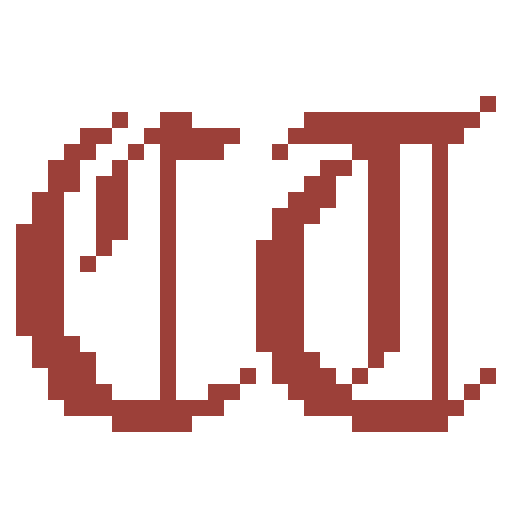
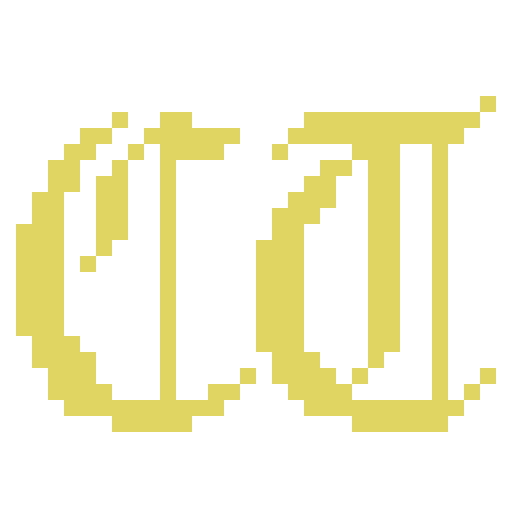
new color

diff --git a/css/styles.0ea3e9989fc6c27bb0498cd610b6d9ded6962526e50b505d3792fd0711d4f9e482dc5d2aa5b4354def56902c72e5c414a550694cf084d53366e19485f2fdc477.css b/css/styles.0ea3e9989fc6c27bb0498cd610b6d9ded6962526e50b505d3792fd0711d4f9e482dc5d2aa5b4354def56902c72e5c414a550694cf084d53366e19485f2fdc477.css
@@ -1,0 +1,3 @@
+:root{--dark_bg:          #242629;--dark_hl_bg:       #34363b;--dark_fg:          #fff;--dark_dim_fg:      #bababa;--dark_stroke:      #4f4f4f;--dark_accent:      #e0d562;--dark_sidebar_bg:  #34363b;--dark_sidebar_fg:  #fff;--light_bg:         #f5f5f5;--light_hl_bg:      #e6e6e6;--light_fg:         #262625;--light_dim_fg:     #40403e;--light_stroke:     #575754;--light_accent:     #db5793;--light_sidebar_bg: #e6e6e6;--light_sidebar_fg: #121211;--default_bg:         #242629;--default_hl_bg:      #34363b;--default_fg:         #fff;--default_dim_fg:     #bababa;--default_stroke:     #4f4f4f;--default_accent:     #e0d562;--default_sidebar_bg: #34363b;--default_sidebar_fg: #fff}::selection,::-moz-selection{background:var(--default_accent);color:var(--default_fg)}body,html{font-family:"Symbols Nerd Font",JetBrains Mono,monospace;font-size:16px;margin:0;padding:0;background-color:var(--default_bg);color:var(--default_fg)}body{min-height:100vh}a{color:var(--default_fg);text-decoration:none;background-color:transparent;border-radius:0;border-bottom:2px solid currentcolor}a:hover,a:hover:not([disabled]),a:focus,a:focus:not([disabled]){border-color:var(--default_accent) !important;background-color:transparent}a.unstyledLink{border:none;text-decoration:none;color:var(--default_fg)}#content{max-width:1000px;margin-left:auto;margin-right:auto;padding:15px}footer{color:var(--default_dim_fg)}footer a{color:var(--default_dim_fg)}footer hr{margin-top:30px}footer .footerColumns{font-size:14.4px;display:flex;flex-direction:row;flex-wrap:wrap}footer .footerColumns ul{margin:7.5px;list-style-type:none;padding:0}footer .footerColumns ul li>strong{font-size:1rem}#links{padding:5px 0}article img,.articlePreview img{margin:auto;display:block;max-width:100%}article pre,article code,.articlePreview pre,.articlePreview code{overflow:auto}article pre,.articlePreview pre{padding:15px;border:1px solid var(--default_stroke);border-radius:3px}code{font-family:"Symbols Nerd Font",JetBrains Mono,monospace;font-size:12.8px;border:1px solid var(--default_stroke);border-radius:3px}code,table{padding:2px}pre code{border:none;border-radius:none;padding:0}table{border-collapse:collapse;overflow-x:auto;display:block}table td,table th{padding:6px;border:1px solid var(--default_stroke)}table th,table tr:nth-child(even){filter:brightness(105%)}blockquote{margin:0;padding-left:30px;border-left:2px solid currentcolor}.date,.date a{color:var(--default_dim_fg);border-color:var(--default_dim_fg);font-size:.9em}#pageNavigation a,.nerdlink a,header #hamburger-menu a,nav:not(#TableOfContents) a{border-bottom:none}#pageNavigation a:hover,.nerdlink a:hover,header #hamburger-menu a:hover,nav:not(#TableOfContents) a:hover{border-bottom:none}#pageNavigation{text-align:right}#pageNavigation a{color:var(--default_accent)}#pageNavigation a,#pageNavigation span{display:inline-block;padding:6px}#pageNavigation.nav-circles{display:flex;flex-direction:row;flex-wrap:wrap;justify-content:flex-end;align-items:center}#pageNavigation.nav-circles a,#pageNavigation.nav-circles span{margin:5px;text-align:center;display:inline-block;width:40px;height:40px;line-height:40px;padding:unset;border-radius:100%;transition:background-color .15s ease-in-out;background-color:var(--default_hl_bg);color:var(--default_fg);box-shadow:0 0 0 0 transparent}#pageNavigation.nav-circles span{background-color:var(--default_accent)}#pageNavigation.nav-circles a:hover{background-color:var(--default_accent)}h1,h2,h3,h4,h5,h6{font-family:"Symbols Nerd Font",JetBrains Mono}h1 a,h2 a,h3 a,h4 a,h5 a,h6 a{color:var(--default_accent);border-bottom:none}h1{font-size:32px}h2{font-size:24px}h3{font-size:20.8px}h4{font-size:16px}h5{font-size:12.8px}h6{font-size:11.2px}.nerd,.nerdlink,header #hamburger-menu{font-family:"Symbols Nerd Font",JetBrains Mono;font-size:19.2px;margin:5px;display:inline-block}.nerdlink,header #hamburger-menu{color:var(--default_fg);border-bottom:none;position:relative;width:1em;height:1.2em;display:inline-flex;align-items:center;justify-content:center}.nerdlink .pseudofont,header #hamburger-menu .pseudofont{fill:var(--default_fg);display:inline;position:relative;top:1px}.nerdlink span,header #hamburger-menu span{position:absolute;top:1.5em;left:50%;transform:translateX(-50%);padding:2px;border:1px solid var(--default_stroke);border-radius:3px;color:var(--default_fg);display:none;background-color:var(--default_bg);z-index:900;text-align:center}.nerdlink:hover,header #hamburger-menu:hover{color:var(--default_accent);text-decoration:none;border-bottom:none}.nerdlink:hover .pseudofont,header #hamburger-menu:hover .pseudofont{fill:var(--default_accent)}.nerdlink:hover span,header #hamburger-menu:hover span{display:block}.card,.featuredCardLink .featuredCard,.featuredCardLink .relatedArticlesContainer #relatedArticles .postlistitem,.relatedArticlesContainer #relatedArticles .featuredCardLink .postlistitem{display:block;padding-bottom:15px}.postlist{display:grid;grid-gap:15px;margin-bottom:15px;grid-template-columns:1fr}.postlist.gridView{grid-template-columns:repeat(auto-fit, minmax(325px, 1fr))}.postlistitem.card div img,.featuredCardLink .postlistitem.featuredCard div img,.featuredCardLink .relatedArticlesContainer #relatedArticles .postlistitem div img,.relatedArticlesContainer #relatedArticles .featuredCardLink .postlistitem div img{height:250px;min-width:100%;object-fit:cover}ul li{margin:5px 0}ul.list .date{display:inline-block;min-width:100px}ul.list>li>div{display:grid;grid-template-columns:100px auto}#commento{margin-top:15px;color:var(--default_fg);font-family:"Symbols Nerd Font",JetBrains Mono,monospace}#commento textarea,#commento #commento-markdown-help-root{background:rgba(255,255,255,0.05);color:var(--default_fg);border-radius:0;border:none}#commento textarea td,#commento textarea td>*,#commento textarea td>*>*,#commento #commento-markdown-help-root td,#commento #commento-markdown-help-root td>*,#commento #commento-markdown-help-root td>*>*{color:var(--default_fg)}#commento textarea td pre,#commento textarea td>* pre,#commento textarea td>*>* pre,#commento #commento-markdown-help-root td pre,#commento #commento-markdown-help-root td>* pre,#commento #commento-markdown-help-root td>*>* pre{font-family:"Symbols Nerd Font",JetBrains Mono,monospace;color:var(--default_dim_fg)}#commento #commento-submit-button-root{background:var(--default_accent);color:var(--default_fg)}#commento .commento-name{color:var(--default_dim_fg)}#commento .commento-sort-policy-buttons a{border-bottom:none}#commento .commento-sort-policy-buttons .commento-sort-policy-button-selected{color:var(--default_accent)}#commento .commento-card{border-top:none;margin:25px 0}#commento .commento-body>*,#commento .commento-body *>*,#commento .commento-body>*>*>*,#commento .commento-body>*>*>*>*,#commento .commento-body>*>*>*>*>*{color:var(--default_fg);font-family:"Symbols Nerd Font",JetBrains Mono,monospace}.search{display:flex;flex-direction:row;flex-wrap:nowrap;align-items:center;margin:15px 0}.search .nerdlink,.search header #hamburger-menu,header .search #hamburger-menu{display:inline-block;cursor:pointer;padding:0 6px}.search #searchbar{width:100%;min-width:150px;font-size:1.3em;outline:none}.titleAndSearchContainer{display:flex;flex-direction:row;flex-wrap:wrap;justify-content:space-between}.titleAndSearchContainer #titleContainer{flex-grow:99}.titleAndSearchContainer .search{flex-grow:1}.titleAndSearchContainer .search,.titleAndSearchContainer .search #searchbar{font-size:1em}.featuredCardLink{border:none;padding:0}.featuredCardLink .featuredCard,.featuredCardLink .relatedArticlesContainer #relatedArticles .postlistitem,.relatedArticlesContainer #relatedArticles .featuredCardLink .postlistitem{background-size:cover;background-position:center;background-repeat:no-repeat;position:relative;height:250px}.featuredCardLink .featuredCard .contentArea,.featuredCardLink .relatedArticlesContainer #relatedArticles .postlistitem .contentArea,.relatedArticlesContainer #relatedArticles .featuredCardLink .postlistitem .contentArea{position:absolute;bottom:0;padding:15px}.featuredCardLink .featuredCard .contentArea,.featuredCardLink .relatedArticlesContainer #relatedArticles .postlistitem .contentArea,.relatedArticlesContainer #relatedArticles .featuredCardLink .postlistitem .contentArea,.featuredCardLink .featuredCard .contentArea h2,.featuredCardLink .relatedArticlesContainer #relatedArticles .postlistitem .contentArea h2,.relatedArticlesContainer #relatedArticles .featuredCardLink .postlistitem .contentArea h2,.featuredCardLink .featuredCard .contentArea .date,.featuredCardLink .relatedArticlesContainer #relatedArticles .postlistitem .contentArea .date,.relatedArticlesContainer #relatedArticles .featuredCardLink .postlistitem .contentArea .date{color:white}.featuredCardLink .featuredCard .contentArea h2,.featuredCardLink .relatedArticlesContainer #relatedArticles .postlistitem .contentArea h2,.relatedArticlesContainer #relatedArticles .featuredCardLink .postlistitem .contentArea h2{margin:0}.featuredCardLink .featuredCard .contentArea .date,.featuredCardLink .relatedArticlesContainer #relatedArticles .postlistitem .contentArea .date,.relatedArticlesContainer #relatedArticles .featuredCardLink .postlistitem .contentArea .date{margin:0}.loadMoreButton{text-align:center;font-size:1.2em;font-weight:bold}.loadMoreButton.buttonLike a{display:inline-block;border-radius:10px;background-color:var(--default_hl_bg);color:var(--default_fg);padding:7.5px;margin:2.5px 0;transition:background-color .15s ease-in-out !important;border-bottom:none;box-shadow:0 0 0 0 transparent}.loadMoreButton.buttonLike a:hover,.loadMoreButton.buttonLike a:focus{background-color:var(--default_accent)}.relatedArticlesContainer{margin:15px 0}#titleContainer{display:flex;flex-direction:row;flex-wrap:nowrap;align-items:flex-start;align-self:flex-start}#titleContainer h1{font-weight:normal;font-size:25.6px;margin:0}#titleContainer img{margin-right:7.5px;margin-top:7px;align-self:flex-start;width:50px;max-height:50px;border-radius:5px}nav:not(#TableOfContents) ul,#links ul{list-style-type:none;display:flex;flex-direction:row;flex-wrap:wrap;padding:0;margin:0}header{max-width:1000px;margin-left:auto;margin-right:auto;padding:15px;margin-bottom:15px}header .rightOfLogo{width:100%}header .rightOfLogo .titleAndHamburger{display:flex;flex-direction:row;flex-wrap:nowrap;align-items:flex-start;justify-content:space-between}header nav:not(#TableOfContents){font-size:.9em}header nav:not(#TableOfContents) ul li{border-right:1px solid var(--default_accent)}header nav:not(#TableOfContents) ul li:last-child{border-right:none}header nav:not(#TableOfContents) ul li a{padding:2px 15px;color:var(--default_accent)}header nav:not(#TableOfContents) ul li a:hover{text-decoration:underline}.articleTagsContainer{margin:15px 0}a.buttonTag{display:inline-block;border-radius:10px;background-color:var(--default_hl_bg);color:var(--default_fg);padding:7.5px;margin:2.5px 0;transition:background-color .15s ease-in-out !important;border-bottom:none;box-shadow:0 0 0 0 transparent}a.buttonTag:hover,a.buttonTag:focus{background-color:var(--default_accent)}.cactus-button,.cactus-login-buttons>button{font-family:JetBrains Mono;padding:0;margin:5px 0 5px 15px !important;color:var(--default_fg);text-decoration:none;background-color:transparent;border-radius:0;border-bottom:2px solid currentcolor;font-size:19.2px;transition-property:border-color, background-color !important;transition-duration:.15s;transition-timing-function:ease-in-out;opacity:1 !important}.cactus-button:hover,.cactus-button:hover:not([disabled]),.cactus-button:focus,.cactus-button:focus:not([disabled]),.cactus-login-buttons>button:hover,.cactus-login-buttons>button:hover:not([disabled]),.cactus-login-buttons>button:focus,.cactus-login-buttons>button:focus:not([disabled]){border-color:var(--default_accent) !important;background-color:transparent}.cactus-button[disabled],.cactus-login-buttons>button[disabled]{opacity:.5 !important;border-color:transparent !important;background-color:transparent !important;box-shadow:none}.shareBtn,button{color:var(--default_fg);text-decoration:none;background-color:transparent;border-radius:0;border-bottom:2px solid currentcolor;font-size:19.2px;cursor:pointer}.shareBtn:hover,.shareBtn:hover:not([disabled]),.shareBtn:focus,.shareBtn:focus:not([disabled]),button:hover,button:hover:not([disabled]),button:focus,button:focus:not([disabled]){border-color:var(--default_accent) !important;background-color:transparent}input,textarea,textarea.cactus-editor-textarea{border-radius:0 !important;box-sizing:border-box;font-family:"Symbols Nerd Font",JetBrains Mono;background-color:var(--default_hl_bg) !important;color:var(--default_fg);max-width:100%;min-width:10px;padding:12px;border:2px solid transparent !important;border-color:transparent;transition:border-color .15s ease-in-out !important}input:focus,input:active,textarea:focus,textarea:active,textarea.cactus-editor-textarea:focus,textarea.cactus-editor-textarea:active{border-color:var(--default_accent) !important;outline:none}.cactus-editor-name{box-sizing:border-box;max-width:100%;min-width:10px}.cactus-login-form{border-radius:0;box-shadow:none;border:2px solid var(--default_stroke);max-width:600px;min-width:200px;width:100%;margin:0 auto;box-sizing:border-box;transform:none;top:30px;left:0;right:0;background-color:var(--default_bg) !important;color:var(--default_fg) !important;z-index:9999}.cactus-login-form>a{color:var(--default_fg);text-decoration:none;background-color:transparent;border-radius:0;border-bottom:2px solid currentcolor;font-size:19.2px;align-self:flex-end}.cactus-login-form>a:hover,.cactus-login-form>a:hover:not([disabled]),.cactus-login-form>a:focus,.cactus-login-form>a:focus:not([disabled]){border-color:var(--default_accent) !important;background-color:transparent}.cactus-login-form>a>button{background-color:transparent !important;border:none !important;box-shadow:none !important;margin:0 !important;padding:0 !important}.cactus-login-form .cactus-login-buttons{margin:0;justify-content:flex-end}.cactus-login-form .cactus-login-buttons>button{flex-grow:0;white-space:nowrap}#fediInstanceDialog{display:none;position:fixed;top:0;bottom:0;left:0;right:0}#fediInstanceDialog .dialog{box-shadow:none;border:2px solid var(--default_stroke);box-sizing:border-box;position:absolute;display:flex;flex-direction:column;top:30px;left:50%;transform:translateX(-50%);z-index:9999;background-color:var(--default_bg);width:450px;max-width:100%;padding:15px}#fediInstanceDialog .dialog h1,#fediInstanceDialog .dialog h2,#fediInstanceDialog .dialog h3,#fediInstanceDialog .dialog h4{margin:0}#fediInstanceDialog .dialog h2{margin-bottom:24px}#fediInstanceDialog .dialog input{display:block}#fediInstanceDialog .dialog .buttons{margin:15px 0;display:flex;flex-direction:row;justify-content:end}#fediInstanceDialog .dialog .buttons>*{margin:5px 0 5px 15px;display:block}#fediInstanceDialog .bg{z-index:99;position:absolute;top:0;bottom:0;left:0;right:0;background-color:rgba(0,0,0,0.4);cursor:pointer}#fediInstanceDialog.open{display:block}header #hamburger-menu{display:none !important}header #main-nav-toggler{display:none}@media only screen and (max-width: 520px){header .titleAndSearchContainer{z-index:9999999 !important}header #hamburger-menu{display:block !important;font-size:1.2em;cursor:pointer;text-align:center;margin:0;padding:3.75px;align-self:center}header nav:not(#TableOfContents) ul#main-nav{display:none;position:absolute;z-index:99999;right:15px;padding:2px 5px;width:120px;border:2px solid var(--default_stroke);background-color:var(--default_hl_bg);flex-direction:column}header nav:not(#TableOfContents) ul#main-nav,header nav:not(#TableOfContents) ul#main-nav li,header nav:not(#TableOfContents) ul#main-nav li a{text-shadow:none !important}header nav:not(#TableOfContents) ul#main-nav li{border-right:none !important;display:block;text-align:center;margin:0}header nav:not(#TableOfContents) ul#main-nav li a{box-shadow:none;box-sizing:border-box;display:block;width:100%;padding:10px;margin:3px 0}header nav:not(#TableOfContents) #main-nav-toggler:checked~#main-nav{display:flex}}a{transition-property:color, border-color;transition-duration:.15s;transition-timing-function:ease-in-out}.nerdlink,header #hamburger-menu,.nerdlink .pseudofond,header #hamburger-menu .pseudofond{transition:all .15s ease-in-out}input{transition:.15s border ease-in-out}
+
+/*# sourceMappingURL=styles.css.map */

diff --git a/404.html b/404.html
@@ -38,7 +38,7 @@
 
     
     
-    <link type="text/css" rel="stylesheet" href=https://treseco.github.io/css/styles.ec1acc2d78f3ac49113cb5be53eb69e37f5bd505fc7f5d78095f1252cee8c08bb150bc51c2c16f8a864a3373e4847f354c6cc0e0cbc3b4fb581503b3f75f55e7.css integrity="sha512-7BrMLXjzrEkRPLW&#43;U&#43;tp439b1QX8f114CV8SUs7owIuxULxRwsFvioZKM3PkhH81TGzA4MvDtPtYFQOz919V5w==" />
+    <link type="text/css" rel="stylesheet" href=https://treseco.github.io/css/styles.0ea3e9989fc6c27bb0498cd610b6d9ded6962526e50b505d3792fd0711d4f9e482dc5d2aa5b4354def56902c72e5c414a550694cf084d53366e19485f2fdc477.css integrity="sha512-DqPpmJ/GwnuwSYzWELbZ3taWJSblC1BdN5L9BxHU&#43;eSC3F0qpbQ1Te9WkCxy5cQUpVBpTPCE1TNm4ZSF8v3Edw==" />
 <meta name="author" content="" />
 
     

diff --git a/categories/index.html b/categories/index.html
@@ -43,7 +43,7 @@
 
     
     
-    <link type="text/css" rel="stylesheet" href=https://treseco.github.io/css/styles.ec1acc2d78f3ac49113cb5be53eb69e37f5bd505fc7f5d78095f1252cee8c08bb150bc51c2c16f8a864a3373e4847f354c6cc0e0cbc3b4fb581503b3f75f55e7.css integrity="sha512-7BrMLXjzrEkRPLW&#43;U&#43;tp439b1QX8f114CV8SUs7owIuxULxRwsFvioZKM3PkhH81TGzA4MvDtPtYFQOz919V5w==" />
+    <link type="text/css" rel="stylesheet" href=https://treseco.github.io/css/styles.0ea3e9989fc6c27bb0498cd610b6d9ded6962526e50b505d3792fd0711d4f9e482dc5d2aa5b4354def56902c72e5c414a550694cf084d53366e19485f2fdc477.css integrity="sha512-DqPpmJ/GwnuwSYzWELbZ3taWJSblC1BdN5L9BxHU&#43;eSC3F0qpbQ1Te9WkCxy5cQUpVBpTPCE1TNm4ZSF8v3Edw==" />
 <meta name="author" content="" />
 
     

diff --git a/index.html b/index.html
@@ -37,7 +37,7 @@
 
     
     
-    <link type="text/css" rel="stylesheet" href=https://treseco.github.io/css/styles.ec1acc2d78f3ac49113cb5be53eb69e37f5bd505fc7f5d78095f1252cee8c08bb150bc51c2c16f8a864a3373e4847f354c6cc0e0cbc3b4fb581503b3f75f55e7.css integrity="sha512-7BrMLXjzrEkRPLW&#43;U&#43;tp439b1QX8f114CV8SUs7owIuxULxRwsFvioZKM3PkhH81TGzA4MvDtPtYFQOz919V5w==" />
+    <link type="text/css" rel="stylesheet" href=https://treseco.github.io/css/styles.0ea3e9989fc6c27bb0498cd610b6d9ded6962526e50b505d3792fd0711d4f9e482dc5d2aa5b4354def56902c72e5c414a550694cf084d53366e19485f2fdc477.css integrity="sha512-DqPpmJ/GwnuwSYzWELbZ3taWJSblC1BdN5L9BxHU&#43;eSC3F0qpbQ1Te9WkCxy5cQUpVBpTPCE1TNm4ZSF8v3Edw==" />
 <meta name="author" content="" />
 
     

diff --git a/page/2/index.html b/page/2/index.html
@@ -37,7 +37,7 @@
 
     
     
-    <link type="text/css" rel="stylesheet" href=https://treseco.github.io/css/styles.ec1acc2d78f3ac49113cb5be53eb69e37f5bd505fc7f5d78095f1252cee8c08bb150bc51c2c16f8a864a3373e4847f354c6cc0e0cbc3b4fb581503b3f75f55e7.css integrity="sha512-7BrMLXjzrEkRPLW&#43;U&#43;tp439b1QX8f114CV8SUs7owIuxULxRwsFvioZKM3PkhH81TGzA4MvDtPtYFQOz919V5w==" />
+    <link type="text/css" rel="stylesheet" href=https://treseco.github.io/css/styles.0ea3e9989fc6c27bb0498cd610b6d9ded6962526e50b505d3792fd0711d4f9e482dc5d2aa5b4354def56902c72e5c414a550694cf084d53366e19485f2fdc477.css integrity="sha512-DqPpmJ/GwnuwSYzWELbZ3taWJSblC1BdN5L9BxHU&#43;eSC3F0qpbQ1Te9WkCxy5cQUpVBpTPCE1TNm4ZSF8v3Edw==" />
 <meta name="author" content="" />
 
     

diff --git a/pages/about/index.html b/pages/about/index.html
@@ -38,7 +38,7 @@
 
     
     
-    <link type="text/css" rel="stylesheet" href=https://treseco.github.io/css/styles.ec1acc2d78f3ac49113cb5be53eb69e37f5bd505fc7f5d78095f1252cee8c08bb150bc51c2c16f8a864a3373e4847f354c6cc0e0cbc3b4fb581503b3f75f55e7.css integrity="sha512-7BrMLXjzrEkRPLW&#43;U&#43;tp439b1QX8f114CV8SUs7owIuxULxRwsFvioZKM3PkhH81TGzA4MvDtPtYFQOz919V5w==" />
+    <link type="text/css" rel="stylesheet" href=https://treseco.github.io/css/styles.0ea3e9989fc6c27bb0498cd610b6d9ded6962526e50b505d3792fd0711d4f9e482dc5d2aa5b4354def56902c72e5c414a550694cf084d53366e19485f2fdc477.css integrity="sha512-DqPpmJ/GwnuwSYzWELbZ3taWJSblC1BdN5L9BxHU&#43;eSC3F0qpbQ1Te9WkCxy5cQUpVBpTPCE1TNm4ZSF8v3Edw==" />
 <meta name="author" content="" />
 
     

diff --git a/pages/index.html b/pages/index.html
@@ -43,7 +43,7 @@
 
     
     
-    <link type="text/css" rel="stylesheet" href=https://treseco.github.io/css/styles.ec1acc2d78f3ac49113cb5be53eb69e37f5bd505fc7f5d78095f1252cee8c08bb150bc51c2c16f8a864a3373e4847f354c6cc0e0cbc3b4fb581503b3f75f55e7.css integrity="sha512-7BrMLXjzrEkRPLW&#43;U&#43;tp439b1QX8f114CV8SUs7owIuxULxRwsFvioZKM3PkhH81TGzA4MvDtPtYFQOz919V5w==" />
+    <link type="text/css" rel="stylesheet" href=https://treseco.github.io/css/styles.0ea3e9989fc6c27bb0498cd610b6d9ded6962526e50b505d3792fd0711d4f9e482dc5d2aa5b4354def56902c72e5c414a550694cf084d53366e19485f2fdc477.css integrity="sha512-DqPpmJ/GwnuwSYzWELbZ3taWJSblC1BdN5L9BxHU&#43;eSC3F0qpbQ1Te9WkCxy5cQUpVBpTPCE1TNm4ZSF8v3Edw==" />
 <meta name="author" content="" />
 
     

diff --git a/posts/byuctf23/ducky1/index.html b/posts/byuctf23/ducky1/index.html
@@ -38,7 +38,7 @@
 
     
     
-    <link type="text/css" rel="stylesheet" href=https://treseco.github.io/css/styles.ec1acc2d78f3ac49113cb5be53eb69e37f5bd505fc7f5d78095f1252cee8c08bb150bc51c2c16f8a864a3373e4847f354c6cc0e0cbc3b4fb581503b3f75f55e7.css integrity="sha512-7BrMLXjzrEkRPLW&#43;U&#43;tp439b1QX8f114CV8SUs7owIuxULxRwsFvioZKM3PkhH81TGzA4MvDtPtYFQOz919V5w==" />
+    <link type="text/css" rel="stylesheet" href=https://treseco.github.io/css/styles.0ea3e9989fc6c27bb0498cd610b6d9ded6962526e50b505d3792fd0711d4f9e482dc5d2aa5b4354def56902c72e5c414a550694cf084d53366e19485f2fdc477.css integrity="sha512-DqPpmJ/GwnuwSYzWELbZ3taWJSblC1BdN5L9BxHU&#43;eSC3F0qpbQ1Te9WkCxy5cQUpVBpTPCE1TNm4ZSF8v3Edw==" />
 <meta name="author" content="" />
 
     

diff --git a/posts/byuctf23/ducky2/index.html b/posts/byuctf23/ducky2/index.html
@@ -38,7 +38,7 @@
 
     
     
-    <link type="text/css" rel="stylesheet" href=https://treseco.github.io/css/styles.ec1acc2d78f3ac49113cb5be53eb69e37f5bd505fc7f5d78095f1252cee8c08bb150bc51c2c16f8a864a3373e4847f354c6cc0e0cbc3b4fb581503b3f75f55e7.css integrity="sha512-7BrMLXjzrEkRPLW&#43;U&#43;tp439b1QX8f114CV8SUs7owIuxULxRwsFvioZKM3PkhH81TGzA4MvDtPtYFQOz919V5w==" />
+    <link type="text/css" rel="stylesheet" href=https://treseco.github.io/css/styles.0ea3e9989fc6c27bb0498cd610b6d9ded6962526e50b505d3792fd0711d4f9e482dc5d2aa5b4354def56902c72e5c414a550694cf084d53366e19485f2fdc477.css integrity="sha512-DqPpmJ/GwnuwSYzWELbZ3taWJSblC1BdN5L9BxHU&#43;eSC3F0qpbQ1Te9WkCxy5cQUpVBpTPCE1TNm4ZSF8v3Edw==" />
 <meta name="author" content="" />
 
     

diff --git a/posts/byuctf23/ducky3/index.html b/posts/byuctf23/ducky3/index.html
@@ -38,7 +38,7 @@
 
     
     
-    <link type="text/css" rel="stylesheet" href=https://treseco.github.io/css/styles.ec1acc2d78f3ac49113cb5be53eb69e37f5bd505fc7f5d78095f1252cee8c08bb150bc51c2c16f8a864a3373e4847f354c6cc0e0cbc3b4fb581503b3f75f55e7.css integrity="sha512-7BrMLXjzrEkRPLW&#43;U&#43;tp439b1QX8f114CV8SUs7owIuxULxRwsFvioZKM3PkhH81TGzA4MvDtPtYFQOz919V5w==" />
+    <link type="text/css" rel="stylesheet" href=https://treseco.github.io/css/styles.0ea3e9989fc6c27bb0498cd610b6d9ded6962526e50b505d3792fd0711d4f9e482dc5d2aa5b4354def56902c72e5c414a550694cf084d53366e19485f2fdc477.css integrity="sha512-DqPpmJ/GwnuwSYzWELbZ3taWJSblC1BdN5L9BxHU&#43;eSC3F0qpbQ1Te9WkCxy5cQUpVBpTPCE1TNm4ZSF8v3Edw==" />
 <meta name="author" content="" />
 
     

diff --git a/posts/ductf23/masked_squares_flag_checker/index.html b/posts/ductf23/masked_squares_flag_checker/index.html
@@ -38,7 +38,7 @@
 
     
     
-    <link type="text/css" rel="stylesheet" href=https://treseco.github.io/css/styles.ec1acc2d78f3ac49113cb5be53eb69e37f5bd505fc7f5d78095f1252cee8c08bb150bc51c2c16f8a864a3373e4847f354c6cc0e0cbc3b4fb581503b3f75f55e7.css integrity="sha512-7BrMLXjzrEkRPLW&#43;U&#43;tp439b1QX8f114CV8SUs7owIuxULxRwsFvioZKM3PkhH81TGzA4MvDtPtYFQOz919V5w==" />
+    <link type="text/css" rel="stylesheet" href=https://treseco.github.io/css/styles.0ea3e9989fc6c27bb0498cd610b6d9ded6962526e50b505d3792fd0711d4f9e482dc5d2aa5b4354def56902c72e5c414a550694cf084d53366e19485f2fdc477.css integrity="sha512-DqPpmJ/GwnuwSYzWELbZ3taWJSblC1BdN5L9BxHU&#43;eSC3F0qpbQ1Te9WkCxy5cQUpVBpTPCE1TNm4ZSF8v3Edw==" />
 <meta name="author" content="" />
 
     

diff --git a/posts/ductf23/other/index.html b/posts/ductf23/other/index.html
@@ -38,7 +38,7 @@
 
     
     
-    <link type="text/css" rel="stylesheet" href=https://treseco.github.io/css/styles.ec1acc2d78f3ac49113cb5be53eb69e37f5bd505fc7f5d78095f1252cee8c08bb150bc51c2c16f8a864a3373e4847f354c6cc0e0cbc3b4fb581503b3f75f55e7.css integrity="sha512-7BrMLXjzrEkRPLW&#43;U&#43;tp439b1QX8f114CV8SUs7owIuxULxRwsFvioZKM3PkhH81TGzA4MvDtPtYFQOz919V5w==" />
+    <link type="text/css" rel="stylesheet" href=https://treseco.github.io/css/styles.0ea3e9989fc6c27bb0498cd610b6d9ded6962526e50b505d3792fd0711d4f9e482dc5d2aa5b4354def56902c72e5c414a550694cf084d53366e19485f2fdc477.css integrity="sha512-DqPpmJ/GwnuwSYzWELbZ3taWJSblC1BdN5L9BxHU&#43;eSC3F0qpbQ1Te9WkCxy5cQUpVBpTPCE1TNm4ZSF8v3Edw==" />
 <meta name="author" content="" />
 
     
